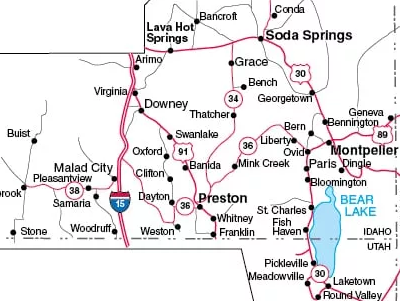
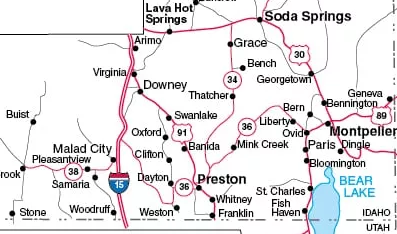
map

diff --git a/lesson11/stormcenter.html b/lesson11/stormcenter.html
@@ -81,10 +81,10 @@
     <input type="submit" value="Send Informtion" class="submitBtn">        
 </form>
 <div class="contact">
-    <picture>
-            <iframe src="https://www.google.com/maps/embed?pb=!1m18!1m12!1m3!1d2960.4428572848306!2d-111.87647903190724!3d42.097985335951!2m3!1f0!2f0!3f0!3m2!1i1024!2i768!4f13.1!3m3!1m2!1s0x8754f7eb8bdfb48f%3A0x439a1219b446cf22!2s80%20N%20State%20St%2C%20Preston%2C%20ID%2083263%2C%20EUA!5e0!3m2!1spt-BR!2sbr!4v1571517828184!5m2!1spt-BR!2sbr" width="400" height="300" style="border:0;" allowfullscreen=""></iframe>
+    <picture class="contacting">
+            <img src="images/map.png" alt="Idaho Map">
     </picture>
-            <section class="social">
+    <section class="social">
    <h3>Time and Weather Today</h3>
 <p>80 N State St, Preston, ID 83263</p>
 <p>&#9742; 987-9976</p>

diff --git a/lesson11/gallery.html b/lesson11/gallery.html
@@ -75,10 +75,10 @@
     </figure>
 </div>
 <div class="contact">
-    <picture>
-            <iframe src="https://www.google.com/maps/embed?pb=!1m18!1m12!1m3!1d2960.4428572848306!2d-111.87647903190724!3d42.097985335951!2m3!1f0!2f0!3f0!3m2!1i1024!2i768!4f13.1!3m3!1m2!1s0x8754f7eb8bdfb48f%3A0x439a1219b446cf22!2s80%20N%20State%20St%2C%20Preston%2C%20ID%2083263%2C%20EUA!5e0!3m2!1spt-BR!2sbr!4v1571517828184!5m2!1spt-BR!2sbr" width="400" height="300" style="border:0;" allowfullscreen=""></iframe>
+    <picture class="contacting">
+            <img src="images/map.png" alt="Idaho Map">
     </picture>
-            <section class="social">
+<section class="social">
    <h3>Time and Weather Today</h3>
 <p>80 N State St, Preston, ID 83263</p>
 <p>&#9742; 987-9976</p>

diff --git a/lesson11/fish_haven.html b/lesson11/fish_haven.html
@@ -91,7 +91,9 @@
     </div>
 <div class="events"></div>
 <div class="contact">
-        <iframe src="https://www.google.com/maps/embed?pb=!1m18!1m12!1m3!1d2960.4428572848306!2d-111.87647903190724!3d42.097985335951!2m3!1f0!2f0!3f0!3m2!1i1024!2i768!4f13.1!3m3!1m2!1s0x8754f7eb8bdfb48f%3A0x439a1219b446cf22!2s80%20N%20State%20St%2C%20Preston%2C%20ID%2083263%2C%20EUA!5e0!3m2!1spt-BR!2sbr!4v1571517828184!5m2!1spt-BR!2sbr" width="400" height="300" style="border:0;" allowfullscreen=""></iframe>
+    <picture class="contacting">
+            <img src="images/map.png" alt="Idaho Map">
+    </picture>
        <section class="social">
         <h3>Time and Weather Today</h3>
     <p>80 N State St, Preston, ID 83263</p>

diff --git a/lesson11/preston.html b/lesson11/preston.html
@@ -87,7 +87,9 @@
     </div>
 <div class="events"></div>
 <div class="contact">
-        <iframe src="https://www.google.com/maps/embed?pb=!1m18!1m12!1m3!1d2960.4428572848306!2d-111.87647903190724!3d42.097985335951!2m3!1f0!2f0!3f0!3m2!1i1024!2i768!4f13.1!3m3!1m2!1s0x8754f7eb8bdfb48f%3A0x439a1219b446cf22!2s80%20N%20State%20St%2C%20Preston%2C%20ID%2083263%2C%20EUA!5e0!3m2!1spt-BR!2sbr!4v1571517828184!5m2!1spt-BR!2sbr" width="400" height="300" style="border:0;" allowfullscreen=""></iframe>
+    <picture class="contacting">
+            <img src="images/map.png" alt="Idaho Map">
+    </picture>
        <section class="social">
         <h3>Time and Weather Today</h3>
     <p>80 N State St, Preston, ID 83263</p>

diff --git a/lesson11/soda_springs.html b/lesson11/soda_springs.html
@@ -86,7 +86,9 @@
     </div>
 <div class="events"></div>
 <div class="contact">
-        <iframe src="https://www.google.com/maps/embed?pb=!1m18!1m12!1m3!1d2960.4428572848306!2d-111.87647903190724!3d42.097985335951!2m3!1f0!2f0!3f0!3m2!1i1024!2i768!4f13.1!3m3!1m2!1s0x8754f7eb8bdfb48f%3A0x439a1219b446cf22!2s80%20N%20State%20St%2C%20Preston%2C%20ID%2083263%2C%20EUA!5e0!3m2!1spt-BR!2sbr!4v1571517828184!5m2!1spt-BR!2sbr" width="400" height="300" style="border:0;" allowfullscreen=""></iframe>
+    <picture class="contacting">
+            <img src="images/map.png" alt="Idaho Map">
+    </picture>
        <section class="social">
         <h3>Time and Weather Today</h3>
     <p>80 N State St, Preston, ID 83263</p>

diff --git a/lesson11/index.html b/lesson11/index.html
@@ -56,8 +56,8 @@
  </section>
  
  <div class="contact">
-     <picture>
-             <iframe src="https://www.google.com/maps/embed?pb=!1m18!1m12!1m3!1d2960.4428572848306!2d-111.87647903190724!3d42.097985335951!2m3!1f0!2f0!3f0!3m2!1i1024!2i768!4f13.1!3m3!1m2!1s0x8754f7eb8bdfb48f%3A0x439a1219b446cf22!2s80%20N%20State%20St%2C%20Preston%2C%20ID%2083263%2C%20EUA!5e0!3m2!1spt-BR!2sbr!4v1571517828184!5m2!1spt-BR!2sbr" width="400" height="300" style="border:0;" allowfullscreen=""></iframe>
+     <picture class="contacting">
+             <img src="images/map.png" alt="Idaho Map">
      </picture>
              <section class="social">
     <h3>Time and Weather Today</h3>

diff --git a/lesson11/css/medium.css b/lesson11/css/medium.css
@@ -20,14 +20,18 @@
 		max-width: 50%;
 		padding: 2%;
 	}
-	.contact iframe {
-		float: left;
-		display: block;
-		max-width: 45%;
-		height: 200px;
-		margin-left: 3%;
-		margin-top: .5%;
-		}
+	.contacting {
+		max-width: 50%;
+	}
+	.contacting img {
+		display: flex;
+		float: right;
+		width: 45%;
+		max-height: 210px;
+		margin-right: 3%;
+		margin-top: 1%;
+	
+	}
 		.social {
 			display: block;
 		}

diff --git a/lesson11/css/small.css b/lesson11/css/small.css
@@ -87,7 +87,7 @@ body {
 	div.hideme {
 		display: none;
 	}
-.contact iframe {
+.contacting img {
 	display: none;
 }
 	
